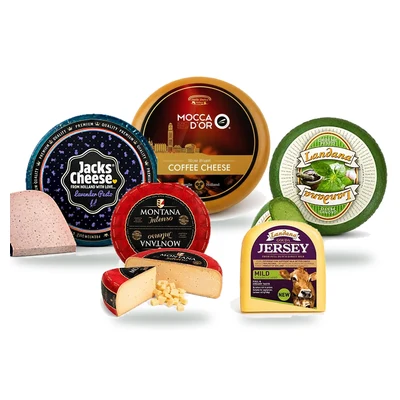
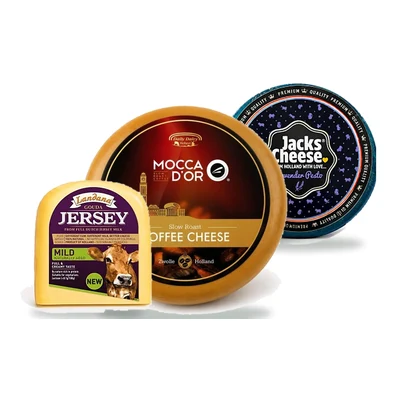
Rework imported cheese cover around one hero wheel
Mocca d'Or in the middle, Jacks behind it on the right (wedge trimmed so
only the wheel shows) and the Landana Jersey wedge in front on the left;
regenerated the home card image and icon to match.

Claude-Session: https://claude.ai/code/session_01HaM8F3VJv6dgB34RjCmCBJ

diff --git a/abuelfadl-store/src/features/products/CategoryCover.tsx b/abuelfadl-store/src/features/products/CategoryCover.tsx
@@ -134,15 +134,16 @@ function DairyCover() {
 }
 
 /**
- * "imported" cover (imported cheese): Mocca d'Or, Jacks lavender and Landana pesto wheels at the back, Montana Intenso and
- * Landana Jersey in front (public/covers/imported/*.webp), each with a contact shadow; they rise in like the dairy cover.
+ * "imported" cover (imported cheese): a Mocca d'Or wheel in the middle, the Jacks wheel behind it on the right and a
+ * Landana Jersey wedge in front on the left (public/covers/imported/*.webp), each with a contact shadow; they rise in
+ * like the dairy cover.
  * Same scene and animation as `.cvd`; positions are the `.cvc-*` rules in 24-category-covers.css.
  */
-const CHEESE_PIECES = ["mocca", "jacks", "landana", "montana", "jersey"] as const;
+const CHEESE_PIECES = ["jacks", "mocca", "jersey"] as const;
 
 function CheeseCover() {
   return (
-    <div className="cvd" role="img" aria-label="أجبان مستوردة: موكا دور وجاك باللافندر ولاندانا بيستو ومونتانا انتنسو وجيرسي">
+    <div className="cvd" role="img" aria-label="أجبان مستوردة: موكا دور وجاكس باللافندر ولاندانا جيرسي">
       <div className="cvd-s" aria-hidden="true">
         {CHEESE_PIECES.map((name) => (
           <span key={name} className={`cvd-p cvc-${name}`}>

diff --git a/abuelfadl-store/src/styles/24-category-covers.css b/abuelfadl-store/src/styles/24-category-covers.css
@@ -75,11 +75,9 @@
 .cvd-murta{left:17.09%;top:64.50%;width:24.56%;z-index:4;--dl:0.5s}
 .cvd-cream{left:57.90%;top:65.50%;width:25.45%;z-index:4;--dl:0.62s}
 /* imported cheese cover: same scene and rise as the dairy cover (CheeseCover) */
-.cvc-mocca{left:34.59%;top:12.40%;width:30.94%;z-index:1;--dl:0.1s}
-.cvc-jacks{left:6.48%;top:25.20%;width:34.55%;z-index:2;--dl:0.22s}
-.cvc-landana{left:60.39%;top:26.40%;width:30.46%;z-index:2;--dl:0.34s}
-.cvc-montana{left:28.70%;top:49.20%;width:26.60%;z-index:4;--dl:0.5s}
-.cvc-jersey{left:56.61%;top:62.10%;width:21.27%;z-index:5;--dl:0.62s}
+.cvc-jacks{left:56.94%;top:10.00%;width:38.06%;z-index:1;--dl:0.1s}
+.cvc-mocca{left:24.81%;top:18.50%;width:49.19%;z-index:3;--dl:0.25s}
+.cvc-jersey{left:10.25%;top:47.00%;width:32.00%;z-index:4;--dl:0.45s}
 @keyframes cvdRise{from{opacity:0;transform:translateY(16%)}to{opacity:1;transform:none}}
 @media(prefers-reduced-motion:reduce){.cvd-p{animation:none;opacity:1}}
 /* Banner layout for every category with a cover: phone = scene on top, title and line below;
